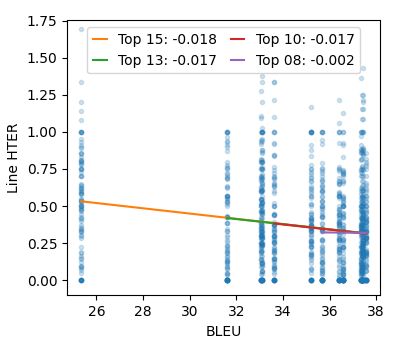
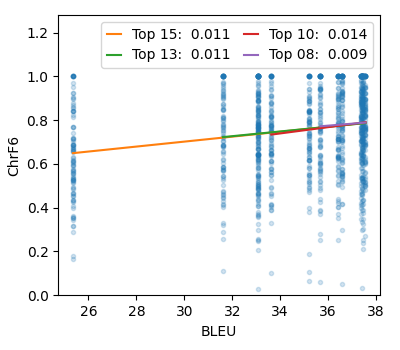
filter experiments

diff --git a/src/processing/exp8_filter.py b/src/processing/exp8_filter.py
@@ -1,0 +1,57 @@
+#!/usr/bin/env python3
+
+from load import *
+import numpy as np
+import matplotlib.pyplot as plt
+from sklearn.linear_model import LinearRegression
+from utils import MT_BLEU, MAX_WORD_TIME, MAX_SENT_TIME
+
+parser = argparse.ArgumentParser()
+#parser.add_argument('-s', '--per-sent', action='store_true')
+args = parser.parse_args()
+
+data = load_mx()
+#PER_SENT = args.per_sent
+
+MT_ORDER = sorted(MT_BLEU.keys(), key=lambda x: MT_BLEU[x][0])
+
+doc_times = {}
+for doc in data:
+    #if doc.mt_name in {'src', 'ref'}:
+    #    continue
+    if doc.doc_name not in doc_times.keys():
+        doc_times[doc.doc_name] = [[] for _ in doc.lines] 
+    for line_i,line in enumerate(doc.lines):
+        doc_times[doc.doc_name][line_i].append(line.edit_time_word)
+doc_times = {k:[np.median(line) for line in doc_lines] for k,doc_lines in doc_times.items()}
+
+faulty_count = 0
+total_count = 0
+# compute per-model data
+mt_times = {k: [] for k in MT_ORDER}
+for doc in data:
+    condition1 = lambda line_i, line: line.edit_time_word <= MAX_WORD_TIME
+    condition2 = lambda line_i, line: line.edit_time_word <= 3 * doc_times[doc.doc_name][line_i]
+    condition3 = lambda line_i, line: line.edit_time_word <= 3 * doc_times[doc.doc_name][line_i] or line.edit_time_word <= 10
+    condition = condition3
+    positive = [line.edit_time_word for (line_i, line) in enumerate(doc.lines) if condition(line_i, line)]
+
+    for line_i, line in enumerate(doc.lines):
+        if condition(line_i, line):
+            continue
+        faulty_count += 1
+        print(doc_times[doc.doc_name][line_i], line.edit_time_word, line.target, sep=' | ')
+
+    mt_times[doc.mt_name] += positive
+    total_count += len(doc.lines)
+
+print('Faulty:', faulty_count, f'({faulty_count/total_count:.2f})')
+print('Total:', total_count)
+print('--')
+
+# print model averages
+print('\n'.join([
+    f'{name:>10} {np.average(v):6.2f}'
+    for name, v
+    in sorted(mt_times.items(), key=lambda x: np.average(x[1]))
+]))

diff --git a/src/processing/exp2_models.py b/src/processing/exp2_models.py
@@ -8,21 +8,28 @@ from utils import MT_BLEU, MAX_WORD_TIME, MAX_SENT_TIME
 
 parser = argparse.ArgumentParser()
 parser.add_argument('-s', '--per-sent', action='store_true')
+parser.add_argument('--micro', action='store_true')
 args = parser.parse_args()
 
 data = load_mx()
 PER_SENT = args.per_sent
+MICROAVERAGE = args.micro
 
 MT_ORDER = sorted(MT_BLEU.keys(), key=lambda x: MT_BLEU[x][0])
 
 # compute per-model data
 mt_times = {k: [] for k in MT_ORDER}
 for doc in data:
-    if PER_SENT:
-        mt_times[doc.mt_name] += [x.edit_time for x in doc.lines if x.edit_time <= MAX_SENT_TIME]
+    if MICROAVERAGE:
+        if PER_SENT:
+            mt_times[doc.mt_name] += [np.average([x.edit_time for x in doc.lines if x.edit_time <= MAX_SENT_TIME])]
+        else:
+            mt_times[doc.mt_name] += [np.average([x.edit_time_word for x in doc.lines if x.edit_time_word <= MAX_WORD_TIME])]
     else:
-        mt_times[doc.mt_name] += [x.edit_time_word for x in doc.lines if x.edit_time_word <= MAX_WORD_TIME]
-
+        if PER_SENT:
+            mt_times[doc.mt_name] += [x.edit_time for x in doc.lines if x.edit_time <= MAX_SENT_TIME]
+        else:
+            mt_times[doc.mt_name] += [x.edit_time_word for x in doc.lines if x.edit_time_word <= MAX_WORD_TIME]
 
 def top_all():
     # actual value plotting

diff --git a/src/processing/exp5_chrf.py b/src/processing/exp5_chrf.py
@@ -20,11 +20,11 @@ mt_times = {k: [] for k in sorted(MT_BLEU.keys(), key=lambda x: MT_BLEU[x][0])}
 for doc in data:
     if AGGREGATE_DOCUMENTS:
         doc_time_avg = np.average(
-            [x.ter() for x in doc.lines]
+            [x.chrf() for x in doc.lines]
         )
         mt_times[doc.mt_name].append(doc_time_avg)
     else:
-        mt_times[doc.mt_name] += [x.ter() for x in doc.lines]
+        mt_times[doc.mt_name] += [x.chrf() for x in doc.lines]
 
 
 def top_n(n, points=False):
@@ -55,8 +55,8 @@ top_n(10)
 top_n(8)
 plt.legend(ncol=2,handlelength=1, columnspacing=1)
 plt.xlabel('BLEU')
-plt.ylabel('HTER')
-plt.ylim(-0.1, 1.5)
+plt.ylabel('ChrF6')
+plt.ylim(0, 1.28)
 plt.tight_layout(rect=(-0.02, -0.01, 1, 1))
 plt.show()
 

diff --git a/src/processing/load.py b/src/processing/load.py
@@ -39,6 +39,9 @@ class MxLine():
         self.edit_time_word = self.edit_time / len(tokens)
         self.think_time_word = self.think_time / len(tokens)
 
+    def chrf(self):
+        return sacrebleu.sentence_chrf(self.target, [self.provided]).score
+
     def ter(self):
         return sacrebleu.sentence_ter(self.target, [self.provided]).score
 
